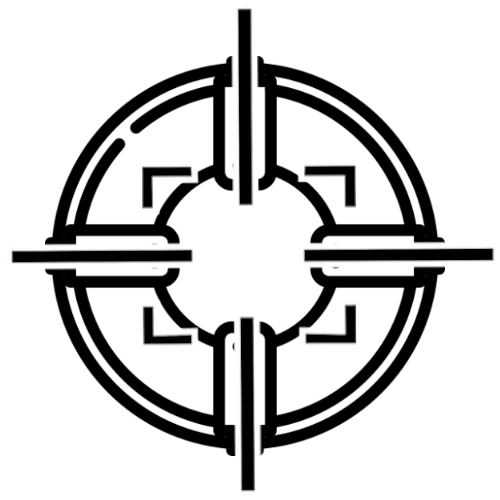
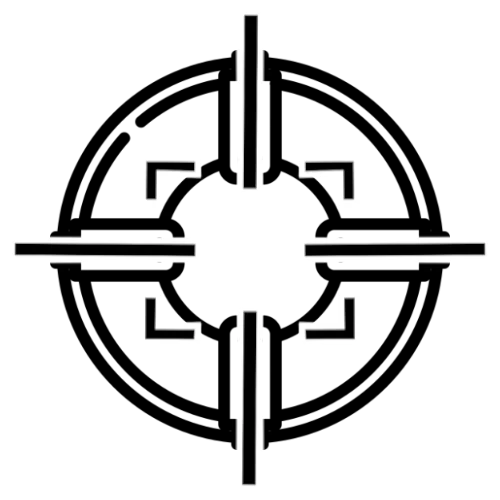
Fixed crosshair
+made crosshair symmetrical
+centered crosshair
+fixed nudge animation
+indentation

Changed region(s): [[0.0, 0.0, 0.99, 0.99]]

diff --git a/css/style.css b/css/style.css
@@ -437,8 +437,8 @@ footer p:not(.disclaimer p) {
 .hero .crosshair {
     position: absolute;
     top: 30%;
-    left: 43.5%;
-    transform: translate(-50%, -0%);
+    left: 50%;
+    transform: translate(-50%, 10%);
     width: 120px;
     height: auto;
     opacity: .8;
@@ -1046,8 +1046,8 @@ footer p:not(.disclaimer p) {
 }
 
 .nudge {
-    animation: nudge-animation 3s linear infinite alternate-reverse;
-    -webkit-animation: nudge-animation 3s linear infinite alternate-reverse;
+    animation: nudge-animation 2s linear infinite alternate-reverse;
+    -webkit-animation: nudge-animation 2s linear infinite alternate-reverse;
 }
 
 .img-ticker {
@@ -1166,19 +1166,19 @@ footer p:not(.disclaimer p) {
 
     0%,
     100% {
-        transform: translate(0, 0);
+        transform: translate(-50%, 10%);
     }
 
     30% {
-        transform: translate(30px, 30px);
+        transform: translate(-0%, 0%);
     }
 
     50% {
-        transform: translate(-30px, 30px);
+        transform: translate(-30%, -10%);
     }
 
     80% {
-        transform: translate(30px, -30px);
+        transform: translate(-100%, 0%);
     }
 }
 
@@ -1363,7 +1363,7 @@ footer p:not(.disclaimer p) {
         top: 15%;
         left: 5%;
         right: 5%;
-    }    
+    }
 }
 
 @media (max-width: 710px) {
@@ -1428,8 +1428,8 @@ footer p:not(.disclaimer p) {
     }
 
     .credits p:nth-of-type(2) {
-       font-size: large;
-    }    
+        font-size: large;
+    }
 }
 
 @media (max-width: 425px) {
@@ -1476,7 +1476,7 @@ footer p:not(.disclaimer p) {
         font-size: 12px;
     }
 
-    .promo-content img{
+    .promo-content img {
         width: 350px;
         height: auto;
     }
@@ -1528,7 +1528,7 @@ header .burger {
 .hamburger.is-active .hamburger-inner,
 .hamburger.is-active .hamburger-inner::before,
 .hamburger.is-active .hamburger-inner::after {
-    background-color:#1abc9c;
+    background-color: #1abc9c;
 }
 
 
@@ -1550,7 +1550,7 @@ header .burger {
 .hamburger-inner::after {
     width: 40px;
     height: 4px;
-    background-color:#1abc9c;
+    background-color: #1abc9c;
     border-radius: 4px;
     position: absolute;
     transition-property: transform;
@@ -1795,9 +1795,9 @@ header .secondary-logo {
 
 /* Vertical Responsive */
 
-@media(max-height:625px){
-    .video-container p{
-        top:5px;
+@media(max-height:625px) {
+    .video-container p {
+        top: 5px;
     }
 
     .video-container iframe {
@@ -1805,15 +1805,29 @@ header .secondary-logo {
     }
 }
 
-@media(max-height:540px){
+@media(max-height:540px) {
     .credits p:nth-of-type(2) {
         font-size: 14px;
     }
+
+    .hero .crosshair {
+        position: absolute;
+        top: 25%;
+        width: 65px;
+        height: auto;
+    }
 }
 
-@media(max-height:400px){
+@media(max-height:400px) {
     .credits p:nth-of-type(2) {
         margin-top: 10px;
         font-size: 12px;
+    }
+
+    .hero .crosshair {
+        position: absolute;
+        top: 20%;
+        width: 55px;
+        height: auto;
     }
 }

diff --git a/index.html b/index.html
@@ -134,7 +134,7 @@
                 </span>
             </button>
         </div>
-        
+
         <a class="secondary-logo" href="#section1">
             <img width="500" height="191" src="images/logo-transparent.webp" alt="Odin Landing Logo">
         </a>
